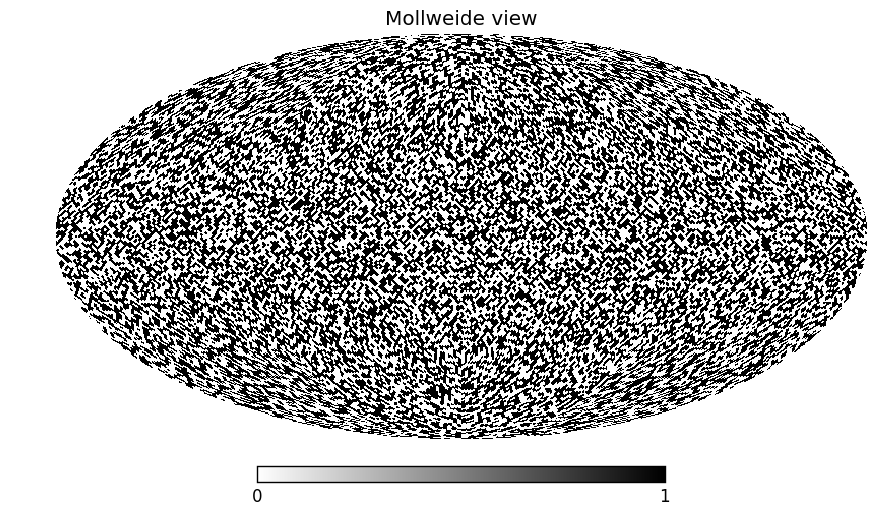
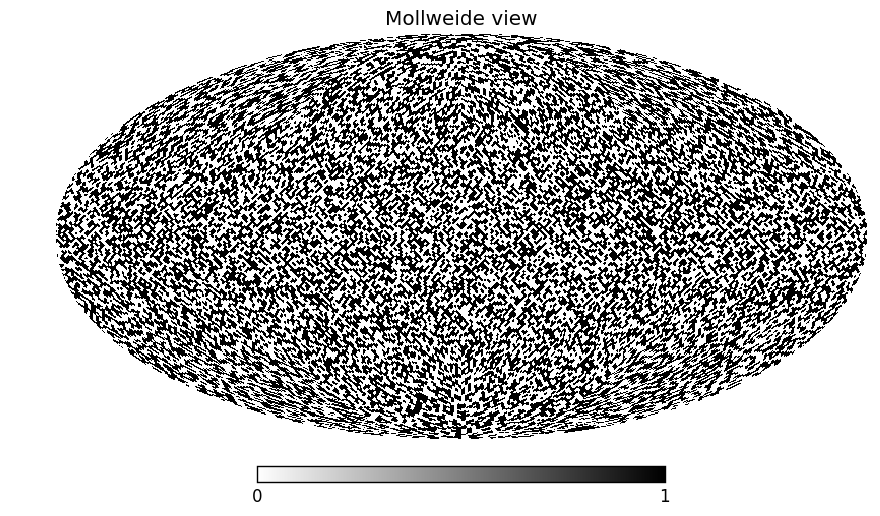
corrected powerlaw index to 0.8

Changed region(s): [[0.0614, 0.062, 0.9818, 0.8682]]

diff --git a/gen.py b/gen.py
@@ -39,7 +39,7 @@ if False:
 # something about the orbits to convert to angles
 # E.g. keplerian circular orbits give only a 
 # scale conversion factor
-r = 1e-3 * (deg/(2*180))**1.5 + 1e-10
+r = 1e-3 * (deg/(2*180))**0.8 + 1e-10
 r[0] = 1e-10
 assert numpy.isfinite(r).all(), r
 plt.plot(deg, r)

diff --git a/README.rst b/README.rst
@@ -3,7 +3,7 @@ The clumpy sky of AGN
 
 Produce sky maps consistent with cloud eclipse events.
 
-Markowitz+14 observed a powerlaw of eclipse durations, with index 1.5.
+Markowitz+14 observed a powerlaw of eclipse durations, with index ~0.8.
 If we translate this to (keplerian) rotations on the sky, this corresponds
 to the correlation of one point in the sky to another.
 
@@ -24,12 +24,17 @@ Powerlaw with index +0.5 (positive):
 
 .. image:: pl0p5.png
 
-Powerlaw with index +1.5 (positive):
+Powerlaw with index +0.8 (real relation):
 
-.. image:: pl1p5-example1.png
-.. image:: pl1p5-example2.png
-.. image:: pl1p5-example3.png
-.. image:: pl1p5-example4.png
-.. image:: pl1p5-example5.png
-.. image:: pl1p5-example6.png
+.. image:: pl0p8-example1.png
+.. image:: pl0p8-example2.png
+.. image:: pl0p8-example3.png
+.. image:: pl0p8-example4.png
+.. image:: pl0p8-example5.png
+.. image:: pl0p8-example6.png
+
+Powerlaw with index +1.5 (more extreme):
+
+.. image:: pl0p5.png
+
 
